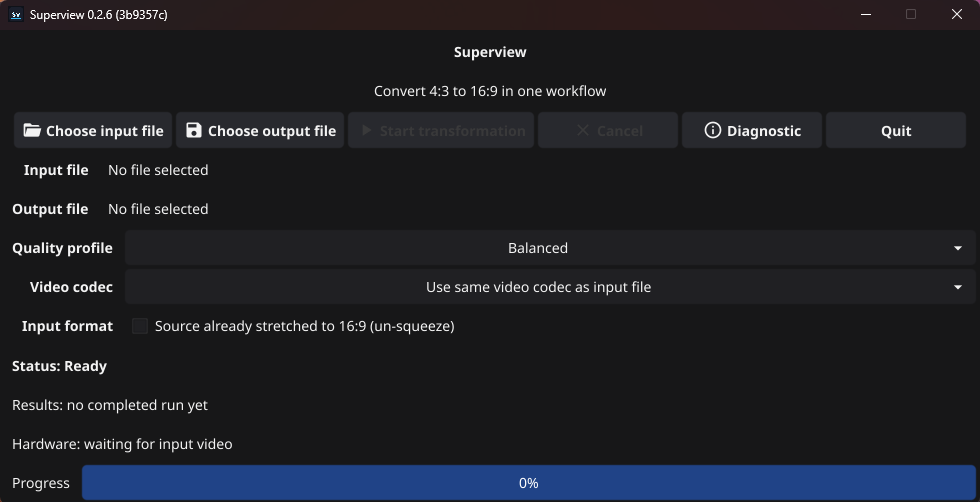
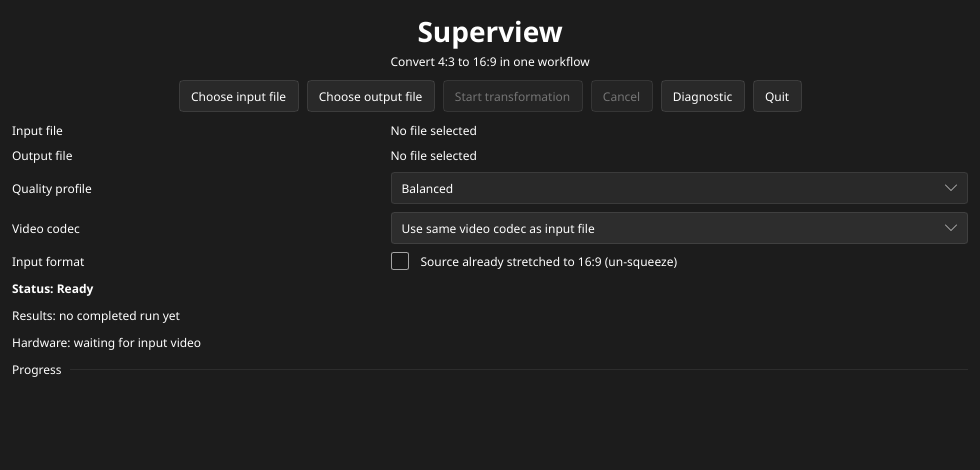
Replace the Fyne screenshot in the README with the current Slint window (#140)
Replace the README screenshot with the Slint window and prepare the 0.3.0 notes

diff --git a/docs/SUITE.md b/docs/SUITE.md
@@ -2,10 +2,11 @@
 - État (2026-10-20) : **Go est retiré** (#136 : gardes portés en Rust + job *Rust coverage and audit* ; #137 : code Go et jobs
   CI Go supprimés, DEC-49). Le produit est le binaire Rust + Slint ; pré-version **`RC-0.3.0`** publiée (installateur Windows,
   AppImage, `checksums.txt`). Dernière version stable : **v0.2.9** (Go, reste dans l'historique). Aucune décision en suspens.
-  **En cours** : phase 8.3 (prose et décisions : AGENTS, docs, README, RELEASING, DEC-49). **Ensuite** : une version stable
-  via `/publier`, sur demande de l'utilisateur et son oui au numéro.
-- Tests manuels passés sur Linux (KDE, Wayland) et Windows (`docs/TESTS-MANUELS.md`) ; en suspend : AMD et QSV (matériel),
-  portail lent, champ texte de repli, lien d'installation.
+  **Fait** : phase 8.3 (prose et décisions, #138) ; VAAPI, GPU Intel seul et « device frame » passés à la main le 2026-10-20
+  (#139) ; capture du README remplacée par la fenêtre Slint (l'ancienne montrait Fyne 0.2.6). **Ensuite** : la version stable
+  **0.3.0** via `/publier`, demandée par l'utilisateur le 2026-10-20 une fois la CI verte et un essai à blanc passé.
+- Tests manuels passés sur Linux (KDE, Wayland), Windows et Intel/NVIDIA (`docs/TESTS-MANUELS.md`) ; en suspend : AMD et QSV
+  (matériel), portail lent, champ texte de repli, lien d'installation.
 - Avant de commencer : `git config core.hooksPath .githooks` (une fois par clone), Rust par rustup (`docs/ENVIRONNEMENT.md`),
   puis `scripts/check.sh`. Le contrôle de couverture (50 %) et `cargo audit` : `make coverage-audit`, ou le job de la CI.
 - Toute modification de `.github/workflows/release.yml` : essai à blanc AVANT fusion (L-114,

diff --git a/RELEASING.md b/RELEASING.md
@@ -9,7 +9,7 @@ This file explains the parts that are not obvious from the button.
 ## Asking Claude to publish
 
 Instead of the button, you can ask Claude Code to publish ("publie la version
-0.2.9"). It runs the same workflow, through the `/publier` skill
+0.3.0"). It runs the same workflow, through the `/publier` skill
 (`.claude/skills/publier/SKILL.md`): it checks that `master` is current and green,
 that no pull request you are waiting for is still open, and that the release
 workflow has been tried since it last changed (L-114); it proposes the version
@@ -48,7 +48,7 @@ The body of a published release is:
 1. the download list and the `sha256sum -c checksums.txt` line, written by the run;
 2. **Changes** — one entry per pull request merged since the previous release;
 3. **Dependencies** — the Dependabot bumps, kept separate so a week of daily
-   `gomod` updates cannot bury the rest;
+   `cargo` updates cannot bury the rest;
 4. a **Full Changelog** compare link.
 
 Sections 2 and 3 come from `.github/release.yml`. That file's `"*"` catch-all is
